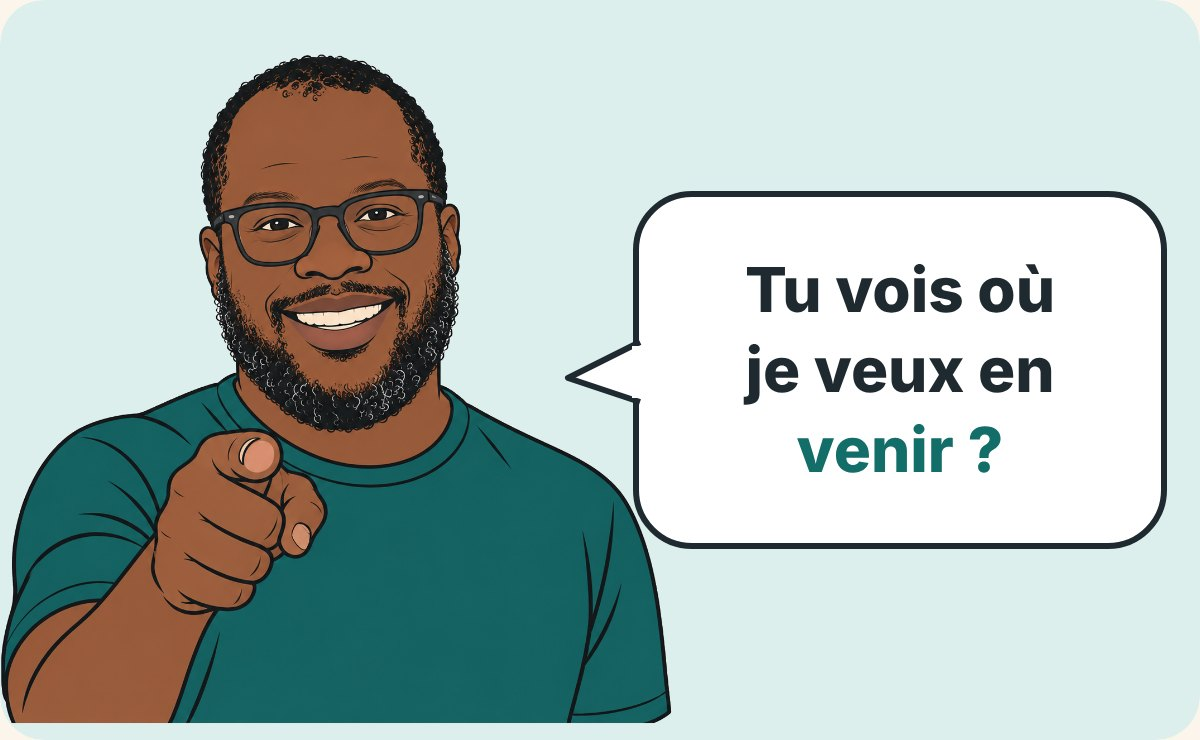
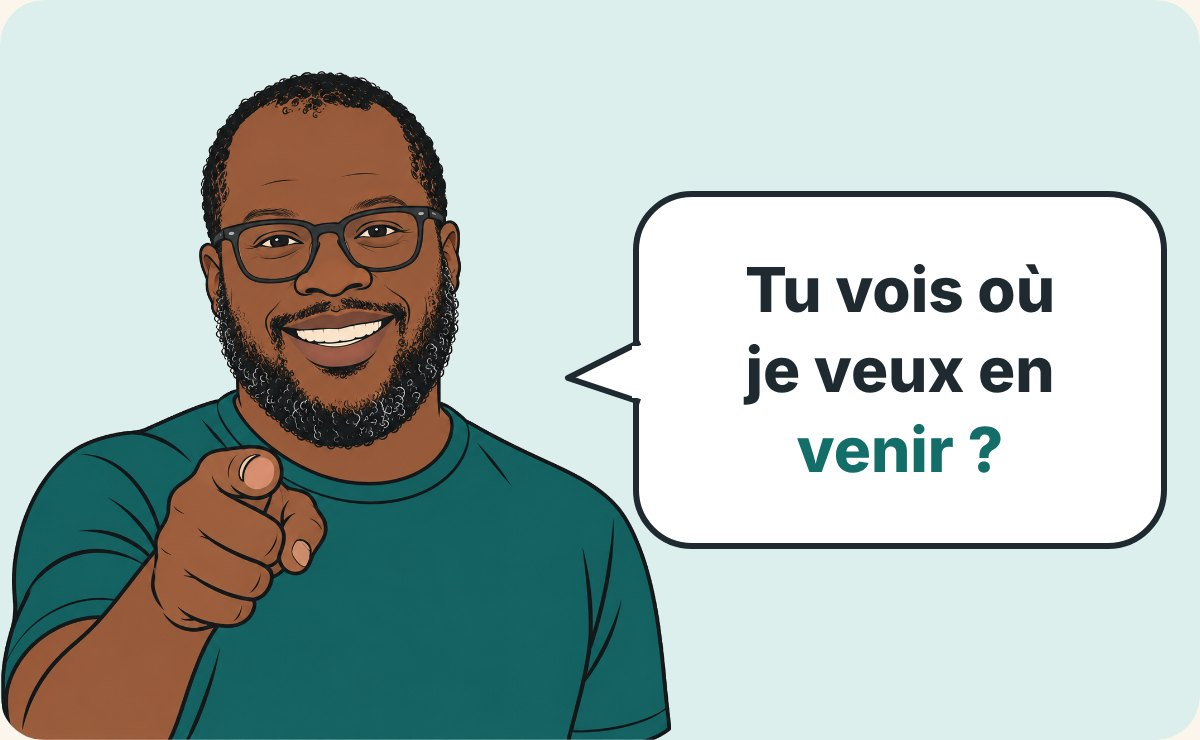
#149 format visuel (succession, rappel Lyannaj Fest) ; #153 : poses corrigées
Claude-Session: https://claude.ai/code/session_01QEEMWNZxp929Pj8nsugEVU

Changed region(s): [[0.0, 0.0622, 0.5858, 1.0]]

diff --git a/outils/build149.py b/outils/build149.py
@@ -80,8 +80,8 @@ A(f'<p style="margin:0 0 28px 0;text-align:center;">{social_btn("Instagram",LINK
 
 # ---------------- FESTIVAL (rappel) ----------------
 A(kicker("Cette semaine",ORANGE)+h3("Le Lyannaj Fest Live commence ce vendredi"))
-A(p("On t'en parlait dans la dernière édition : dès ce vendredi, on se retrouve en live. Aux Antilles, en Guyane, dans l'Hexagone ou ailleurs, tu peux suivre depuis chez toi.",mb=18))
-A(png("03-festival","Lyannaj Fest Live, 3 soirées en live et gratuites, de 19 h à 23 h heure de Paris, soit de 14 h à 18 h aux Antilles et de 15 h à 19 h en Guyane : vendredi 20 novembre, soirée immobilier ; samedi 21 novembre, soirée business ; dimanche 22 novembre, soirée VIP, dont les conditions d'accès sont envoyées aux inscrits.",mb=18))
+A(p("On t'en parlait dans la dernière édition : on y est presque ! Aux Antilles, en Guyane, dans l'Hexagone ou ailleurs, tu peux suivre le live depuis chez toi.",mb=18))
+A(png("03-festival","Lyannaj Fest Live, 3 soirées en live et gratuites, de 14 h à 18 h aux Antilles, de 15 h à 19 h en Guyane, de 19 h à 23 h dans l'Hexagone : vendredi 20 novembre, soirée immobilier ; samedi 21 novembre, soirée business ; dimanche 22 novembre, soirée VIP, dont les conditions d'accès sont envoyées aux inscrits.",mb=18))
 A(p("Au menu du vendredi : premier achat, construction, terrain familial, investir à distance. Le samedi : gagner du temps et de la marge, déléguer, l'IA, le marketing local, la reprise d'entreprise. Et le dimanche, c'est en petit comité, avec un expert par thème."))
 A(png("04-programme","Ce qui t'attend : Will et les coachs immobilier et business ; des experts du financement, des aides et de l'IA ; vendredi, la remise des diplômes, où une centaine de membres racontent leur projet ; tes questions en direct dans le chat.",mb=18))
 A(card(p(f"Pour y accéder, {b('il suffit de t’inscrire')} : tu reçois ensuite ton lien par e-mail et sur WhatsApp. Déjà inscrit ? Garde un œil sur tes messages.",size=17,mb=16)+
@@ -128,7 +128,7 @@ A(p(P_LOI2018,mb=34))
 
 # ---------------- PARTIE 3 ----------------
 A(kicker("Partie 3")+h3(T3))
-A(p(f"Un patrimoine, ce n'est pas seulement ce que tu possèdes. C'est aussi ce que tu laisses {b('en état de marche')}. Prends un appartement : sa valeur sur le papier est la même dans les deux cas. Ce qui change, c'est ce que tu as préparé :",mb=18))
+A(p(f"Un patrimoine, ce n'est pas seulement ce que tu possèdes. C'est aussi ce que tu laisses {b('en état de marche')}. Prends un appartement, et imagine deux façons de le transmettre : sur le papier, sa valeur est la même dans les deux cas. Ce qui change, c'est ce que tu as préparé :",mb=18))
 A(png("05-heritages","Même bien, deux héritages. Rien d'organisé : les papiers sont introuvables, personne ne connaît tes souhaits, tes héritiers ne se parlent plus ; c'est un conflit avec un toit dessus. Tout est organisé : les papiers sont en ordre, chacun sait ce que tu voulais, tes héritiers savent quoi en faire ; c'est un revenu pour ceux d'après.",mb=24))
 A(p(f"Et la différence ne se joue pas le jour de l'enterrement. Elle se joue {b('aujourd’hui')}, pendant que tu peux encore décider, expliquer et organiser."))
 A(p("Mais attention, je ne te demande pas de devenir notaire, ni de passer tes week-ends dans la paperasse. Je te demande juste d'ajouter une question à ta façon d'investir :",mb=10))
@@ -164,9 +164,9 @@ A(p(f"Je ne te dis pas que c'est la seule règle. Je te dis que c'est une questi
 
 # ---------------- PARTIE 5 ----------------
 A(kicker("Partie 5")+h3(T5))
-A(p("Prenons un exemple fictif, pour que tu visualises. Imagine Josette, 62 ans, qui vit à Sainte-Anne, en Guadeloupe. Elle a sa maison, et un T2 qu'elle loue au Gosier, dont le crédit n'est pas fini."))
+A(p("Prenons un exemple fictif, pour que tu visualises. Imagine Josette, 62 ans, qui vit à Sainte-Anne, en Guadeloupe. Elle a sa maison, et un T2 en location au Gosier, qu'elle n'a pas fini de rembourser."))
 A(p("Elle a aussi trois enfants : Marc, qui habite à deux pas de chez elle, et deux filles installées dans l'Hexagone. Le jour où elle part, voici ce qui change selon qu'elle s'est organisée ou non :",mb=18))
-A(png("12-josette","Si rien n'est organisé : les papiers dorment dans une armoire, ses enfants ignorent le crédit du T2, Marc veut la garder et ses sœurs veulent vendre ; la maison attend, volets fermés. Si Josette s'est organisée : elle a fait un dossier, et tous savent où il est ; elle a réuni la famille, chacun a dit ce qu'il veut ; avec son notaire, elle a prévu qui reçoit quoi ; chacun sait ce que Josette voulait.",mb=18))
+A(png("12-josette","Si rien n'est organisé : les papiers dorment dans une armoire, ses enfants ignorent le crédit du T2, Marc tient à la maison et ses sœurs veulent vendre ; la maison attend, volets fermés. Si Josette s'est organisée : elle a fait un dossier, et tous savent où il est ; elle a réuni la famille, chacun a dit ce qu'il veut ; avec son notaire, elle a prévu qui reçoit quoi ; chacun sait ce que Josette voulait.",mb=18))
 A(p("Sans rien d'organisé, ses trois enfants héritent à parts égales, en indivision, de la maison et du T2. Personne n'a tort. Mais personne ne peut trancher."))
 A(p("Si elle s'est organisée, elle sait déjà que ses filles ne comptent pas revenir vivre en Guadeloupe et que Marc tient à la maison. Et ce qu'elle a prévu respecte la part que la loi réserve à chacun de ses enfants."))
 A(p("Est-ce que ça garantit zéro tension ? Non, je ne vais pas te mentir. Mais une famille qui devine et une famille qui sait, c'est toute la différence entre une maison qui vit et une maison qui ferme.",mb=24))

diff --git a/outils/illus149.py b/outils/illus149.py
@@ -74,13 +74,13 @@ def bubble(x,y,w,lines,size=19,fill=WHITE,col=INK):
 
 # 03. FESTIVAL LYANNAJ (rappel)
 g=(txt(300,48,"LYANNAJ FEST LIVE",20,MANGO,800,ls=3) + txt(300,96,"3 soirées en live, gratuites",30,INK,800)
-   + f'<rect x="30" y="114" width="540" height="76" rx="20" fill="{TEAL}"/>' + txt(300,145,"19 h – 23 h à Paris",20,WHITE,800)+txt(300,175,"14 h – 18 h aux Antilles · 15 h – 19 h en Guyane",18,WHITE,700))
+   + f'<rect x="30" y="114" width="540" height="110" rx="20" fill="{TEAL}"/>' + txt(300,146,"14 h – 18 h aux Antilles",22,WHITE,800)+txt(300,177,"15 h – 19 h en Guyane",22,WHITE,800)+txt(300,207,"19 h – 23 h dans l’Hexagone",20,PEACH,700))
 days=[("VEN. 20 NOV.","Soirée","immobilier",TEAL,INK),("SAM. 21 NOV.","Soirée","business",TEAL,INK),("DIM. 22 NOV.","Soirée","VIP",MANGO_D,MANGO_D)]
 for k,(dd,a,b2,c,fc) in enumerate(days):
     x=24+k*192
-    g+=cal(x,212,168,150,dd,c, txt(x+84,292,a,22,INK,800)+txt(x+84,320,b2,22,fc,800)+rings(x,212,168))
-g+=txt(300,400,"Soirée VIP : conditions d’accès",20,INK,700)+txt(300,428,"envoyées aux inscrits.",20,INK,700)
-out["03-festival"]=svg(600,454,g,MANGO_L)
+    g+=cal(x,246,168,150,dd,c, txt(x+84,326,a,22,INK,800)+txt(x+84,354,b2,22,fc,800)+rings(x,246,168))
+g+=txt(300,434,"Soirée VIP : conditions d’accès",20,INK,700)+txt(300,462,"envoyées aux inscrits.",20,INK,700)
+out["03-festival"]=svg(600,488,g,MANGO_L)
 
 # 04. CE QUI T'ATTEND
 items=[["Will et les coachs","immobilier et business"],["Des experts du financement,","des aides et de l’IA"],["Vendredi : la remise des diplômes,","où une centaine de membres","racontent leur projet"],["Tes questions, en direct","dans le chat"]]
@@ -120,7 +120,7 @@ rows=[("Tes enfants",["À parts égales."],TEAL),
       ("Ton conjoint marié",["Un quart en pleine propriété,","ou l’usufruit de tout,","selon ta famille."],TEAL),
       ("Ton compagnon,","même pacsé",MANGO)]
 g=txt(300,48,"SANS TESTAMENT, QUI HÉRITE ?",20,TEAL,800,ls=1.5); y=70
-for who,what,c in [("Tes enfants",["À parts égales."],TEAL),("Ton conjoint marié",["Si tous vos enfants sont communs :","un quart de tes biens ou l’usufruit","de tout, au choix. Sinon : un quart."],TEAL),("Ton partenaire pacsé",["Rien. Seulement le droit de rester","un an, gratuitement, dans votre logement."],MANGO),("Ton concubin",["Rien du tout."],MANGO)]:
+for who,what,c in [("Tes enfants",["À parts égales."],TEAL),("Ton conjoint marié",["Si tous vos enfants sont communs :","un quart de tes biens ou l’usufruit","de tout, au choix. Si l’un est né","d’une autre union : un quart."],TEAL),("Ton partenaire pacsé",["Rien. Seulement le droit de rester","un an, gratuitement, dans votre logement."],MANGO),("Ton concubin",["Rien du tout."],MANGO)]:
     h=40+30*len(what)+30
     g+=f'<rect x="24" y="{y}" width="552" height="{h}" rx="16" fill="{WHITE}"/><rect x="24" y="{y}" width="10" height="{h}" fill="{c}"/>'
     g+=txt(52,y+38,who,21,c if c==MANGO else TEAL,800,anchor="start")
@@ -170,7 +170,7 @@ def col2(x0,title,color,rows,badge,bfill,btxt,rowfill):
     g+=f'<rect x="{x0}" y="394" width="270" height="88" rx="16" fill="{bfill}"/>'+"".join(txt(x0+135,430+j*30,l,20,btxt,800 if j==0 else 700) for j,l in enumerate(badge))
     return g
 g=(f'<rect x="300" y="0" width="300" height="508" fill="{TEAL_L}"/>'
-   + col2(16,("Si rien","n’est organisé"),"#5F6B70",[["Les papiers dorment","dans une armoire."],["Ses enfants ignorent","le crédit du T2."],["Marc veut la garder,","ses sœurs veulent vendre."]],["La maison attend,","volets fermés."],GREY_L,INK,"#F4F1EC")
+   + col2(16,("Si rien","n’est organisé"),"#5F6B70",[["Les papiers dorment","dans une armoire."],["Ses enfants ignorent","le crédit du T2."],["Marc tient à la maison,","ses sœurs veulent vendre."]],["La maison attend,","volets fermés."],GREY_L,INK,"#F4F1EC")
    + col2(314,("Si Josette","s’est organisée"),TEAL,[["Elle a fait un dossier,","et tous savent où il est."],["Elle a réuni la famille,","chacun a dit ce qu’il veut."],["Avec son notaire, elle a","prévu qui reçoit quoi."]],["Chacun sait ce","que Josette voulait."],MANGO,INK,WHITE))
 out["12-josette"]=svg(600,508,g,WHITE)
 dest=sys.argv[1]; os.makedirs(dest,exist_ok=True)
